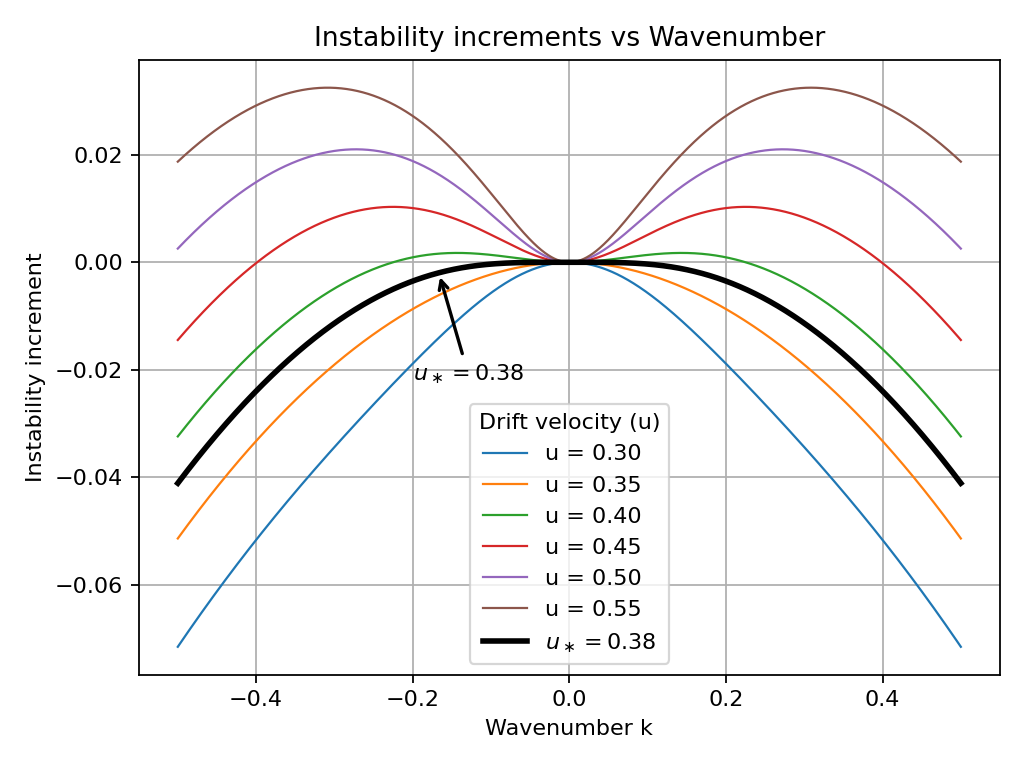
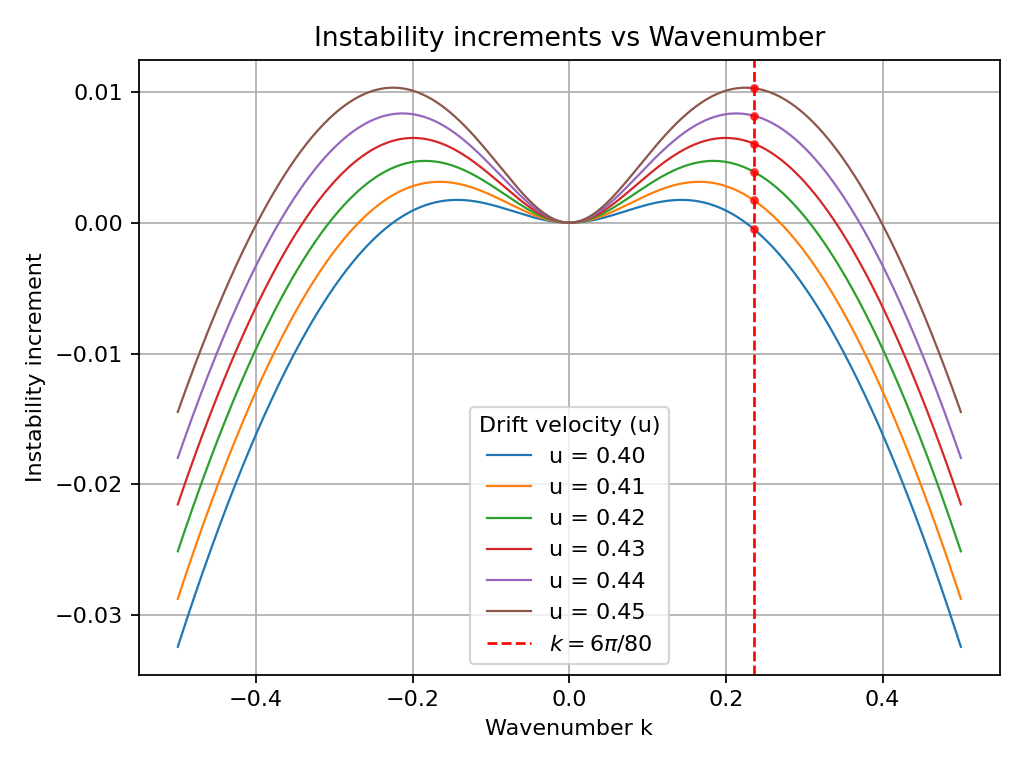
Refine instability increment visualization and update associated data files. Adjusted drift velocity range in `linear_instability_increment.py` to 0.4 to 0.46 with finer increments. Updated PDF and PNG output files to reflect these changes and improved formatting for clarity.

diff --git a/linear instability increment/linear_instability_increment.py b/linear instability increment/linear_instability_increment.py
@@ -16,7 +16,7 @@ fig, ax = plt.subplots()
 
 u_star = 0.37671861
 
-u_values = np.append(np.arange(0.3, 0.6, 0.05), u_star)
+u_values = np.arange(0.4, 0.46, 0.01)#np.append(np.arange(0.4, 0.46, 0.01), u_star)
 
 for u in u_values:
     k_out = np.linspace(kmin, kmax, N)
@@ -41,6 +41,11 @@ for u in u_values:
     label = f'$u_\\ast = {u:.2f}$' if np.isclose(u, u_star) else f'u = {u:.2f}'
     color = 'k' if np.isclose(u, u_star) else None
     ax.plot(k_out, np.imag(omega1), label=label, linewidth=lw, color=color)
+    
+    k_intersect = 0.23561944901923448
+    omega1_intersect = np.interp(k_intersect, k_out, np.imag(omega1))
+    ax.plot(k_intersect, omega1_intersect, 'ro', markersize=3, alpha=0.7)
+    
     # ax.plot(k_out, np.imag(omega2), linewidth=lw, color=color)
 
     if np.isclose(u, u_star):
@@ -62,7 +67,8 @@ k_max_right = k_right[np.argmax(im1_right)]
 
 L = 80.0
 k_line = 6 * np.pi / L
-# ax.axvline(k_line, color="red", linestyle="--", linewidth=1.2, label=f"$k = 6\\pi/{L:.0f}$")
+ax.axvline(k_line, color="red", linestyle="--", linewidth=1.2, label=f"$k = 6\\pi/{L:.0f}$")
+print(k_line)
 
 # k_line = 20 * np.pi / L
 # ax.axvline(k_line, color="purple", linestyle="--", linewidth=1.2, label=f"$k = 6\\pi/{L:.0f}$")
